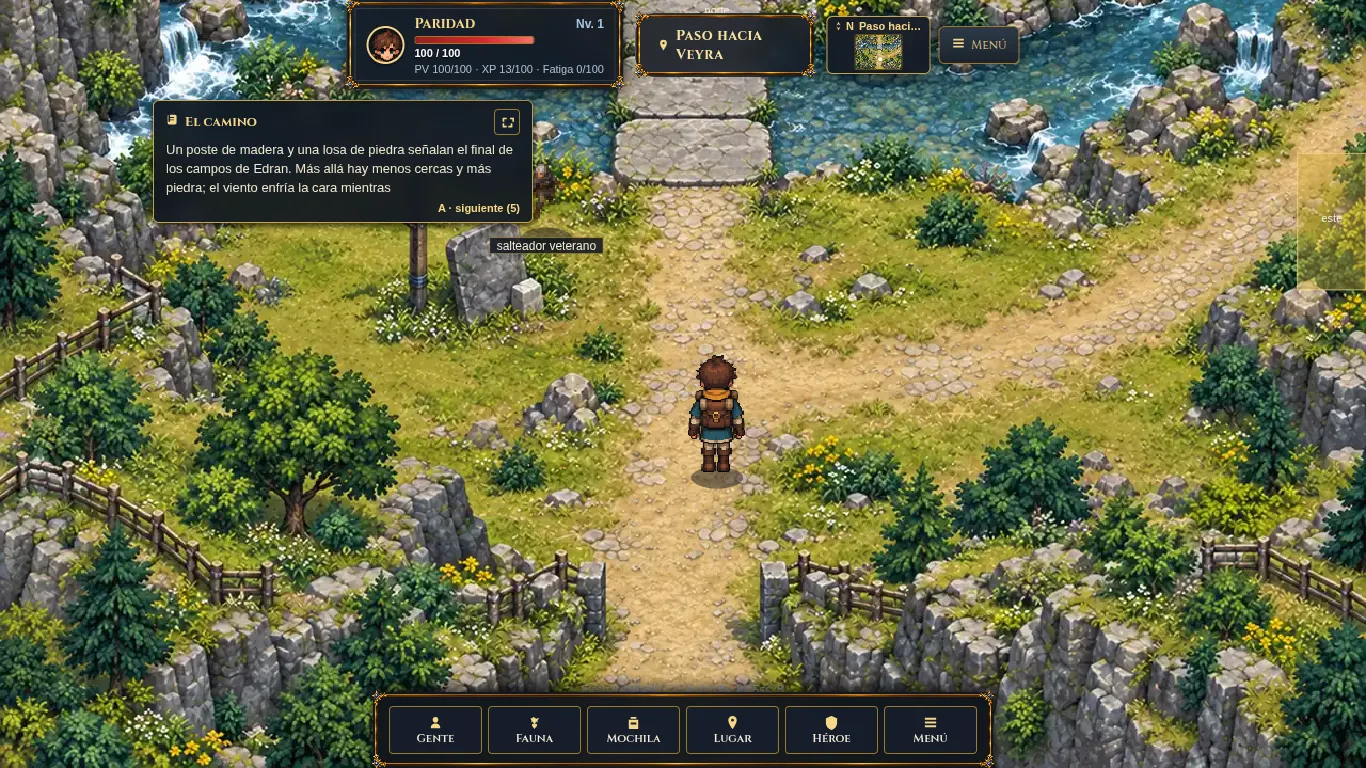
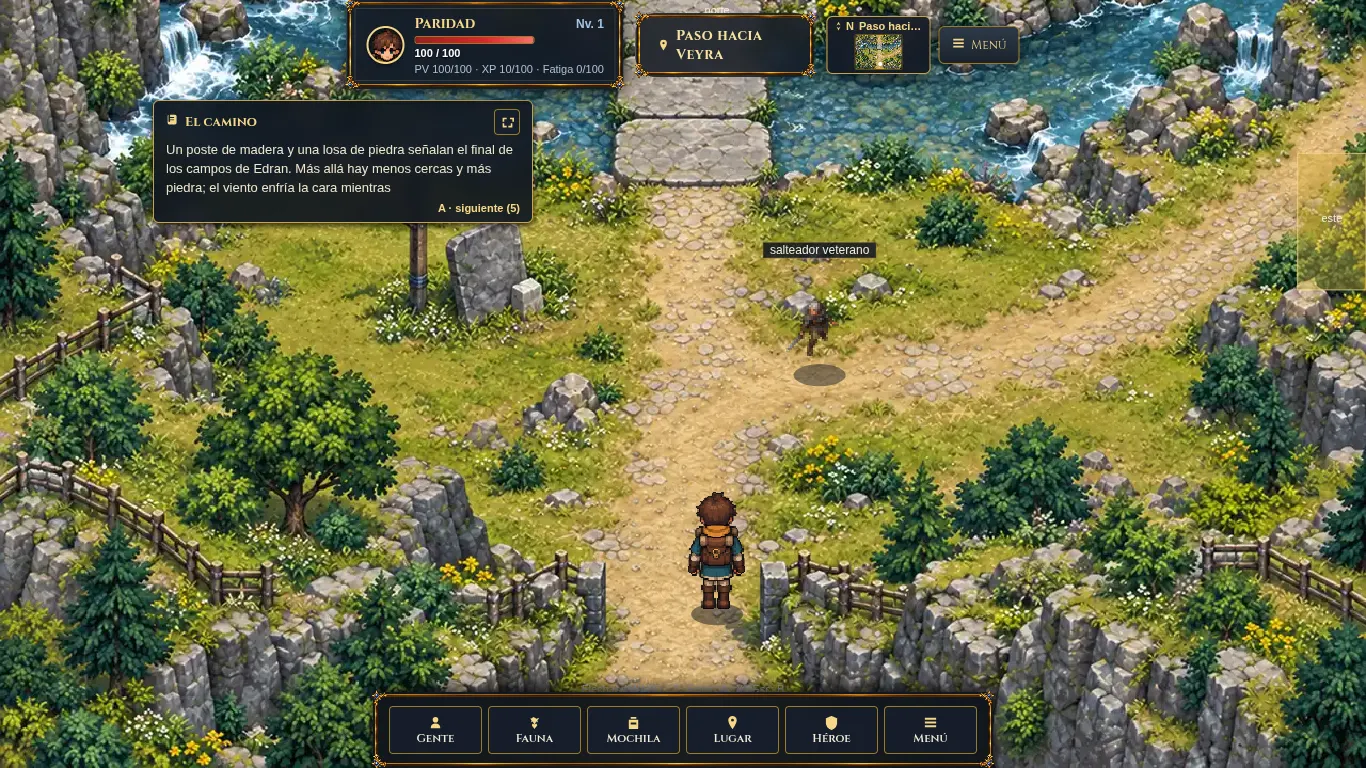
feat(rpg): reubicar veterana en edran_hito_campos fuera de HUD y actualizar capturas CM-12

diff --git a/vintage-telnet-2/docs/RPG_EDRAN_NORTE_01.md b/vintage-telnet-2/docs/RPG_EDRAN_NORTE_01.md
@@ -27,7 +27,7 @@ Cinco salas ilustradas del norte de Edran, sus fuentes Tiled y recursos aprobado
    - Salidas exactas: norte (`veyra_puerta_campos`), sur (`edran_calzada`) y este (`edran_vista_cuenca`). Sin salida oeste.
    - Arroyo transversal bloqueado excepto en el cruce de las tres losas contiguas de piedra (`[9..10, 3..6]`). Agua adyacente a las losas bloqueada.
    - Desvío al este en ascenso transitable hacia la vista panorámica.
-   - Poste y losa delimitadora marcados como obstáculos.
+   - Poste y losa delimitadora marcados como obstáculos. Veterana en `[12,9]`, sobre suelo firme y fuera del relato de escritorio.
    - Fauna canónica: `salteador_veterano`, `espinajo_rastrojo`.
 
 5. **Mirador de la cuenca (`edran_vista_cuenca`)**:
@@ -46,6 +46,7 @@ Cinco salas ilustradas del norte de Edran, sus fuentes Tiled y recursos aprobado
 - `git diff --check`: sin espacios en blanco corruptos ni fallos de formato.
 - Chrome visible con SQLite temporal: PASS, 18 recorridos cubriendo las 11 salidas, acercamiento y conversación con Aren, lectura real de nota, acercamiento y conversación con Bravucón, ronda real de combate con bloqueo y desbloqueo tras 5,1 segundos. No se teletransportó el avatar.
 - [14 capturas del cliente](visual/edran-norte-01/): escritorio 1366×768 y viewport móvil 390×844. La pestaña estuvo oculta durante parte de la automatización: se comprobaron imágenes cargadas y render explícito; esto no acredita fluidez, tacto ni rendimiento de un teléfono físico.
+- Recaptura focal del Hito tras mover a la veterana: tres recorridos adicionales, acercamiento real y límites del sprite fuera de HUD/relato PASS en ambos viewports.
 - Revisión independiente de arte y geometría: SHIP tras corregir roca del Terraplén, escalón/muebles de Casa, curva de Calzada, agua y desvío del Hito y entradas del Mirador.
 
 ## Estado de integración
